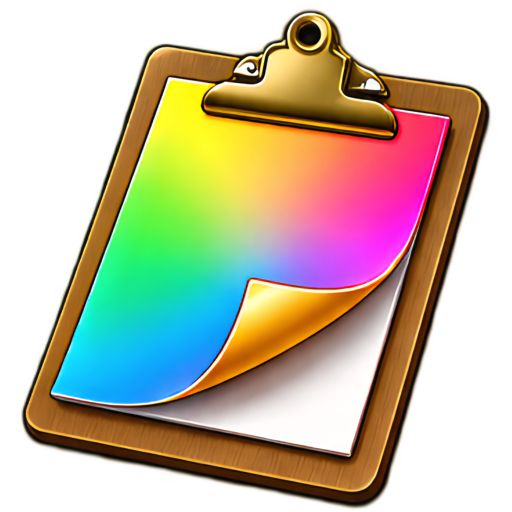
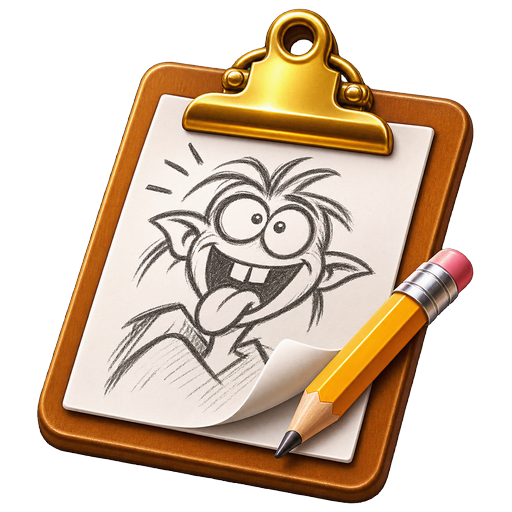
Create from Clipboard picture: George clipboard (rainbow one replaced); changelog 295th; test list 62

diff --git a/KRIMBLE_CHANGES.md b/KRIMBLE_CHANGES.md
@@ -5446,3 +5446,9 @@ George: "Lose the old picture" (after the 292nd entry, which kept the keyboard o
 **Files:** `krimble-artwork/3d/general.png` (changed), 26 picture files deleted (listed below), `krita/pics/svg/dark_config-general.svg`, `light_config-general.svg` (the house), the notes inside 19 other icon files, `krimble-artwork/README.md` (rewritten), `krita/pics/tools/krimble-future-icons/README.txt`
 
 **1. The house.** George sent a picture of a cottage (orange tile roof, brick chimney, lanterns, shutters, flower pots; 1312 x 1199, transparent): "Use this house icon instead of the dirty little house." The "dirty little house" is the icon of **Edit > Preferences > General** (`config-general`: the gray house of the 3D icon sheet). The new picture was cut to its edges, centred in a square with a small margin (512 x 512, `3d/general.png`), and embedded at **256 px** (shown at 192; 139 KB per file instead of 283 KB at 384 px) in the two SVG files, which are the same for both themes. Drawn at 216 px on the dark and the light backgrounds: clean edges. **2. "Remove unused art."** How "unused" was decided: every picture in `krimble-artwork/` was compared, by how it looks, with the 49 pictures the program really installs (the icons embedded in the SVG files, the `krimble-new-*` PNG files, the template pictures), so that a file counts as used when something installed was made from it. **Removed (26 files, about 6.5 MB):** the 12 pictures of `preferences/` (the set of 2026-10-13: replaced by the 3D set on 2026-10-23; the Author page uses the robot head); from `3d/`: the 7 File > New pictures (animation, comics, create-from-clipboard, custom-document, design, dslr, texture: the New dialog went back to the 2026-10-13 pictures in the 256th entry, so the 3D ones are not used) and the 4 pictures never used (advanced-settings, language, reset-restore, resource-paths); `new-document/design-monitor-spare.png`; and the two Eraser originals in `krimble-future-icons` (copies are installed). The old house is replaced by the new one. **Kept, and why:** the source picture of everything installed (12 in `3d/`, 7 in `new-document/`, the robot head); `emoji/` (George's K-and-paw logo for emoji, which he asked to keep, 173rd entry; not used by the app); the Pencil, Path Selection and Clone Stamp icons (for tools not made yet); the splash pictures (the program loads them, both the PNG and the JPG kinds). All 26 files are in the git history (commit `9ff7c00` and the ones before it), so any can be brought back. The notes inside 19 icon files that said the 2026-10-13 picture "is kept in krimble-artwork/preferences/" now say it was removed (they are comments; the pictures embedded in them did not change). **Checked here:** the 23 edited icon files parse as XML; the staged list shows exactly the 26 deletions and nothing else removed. **Not seen on a phone; not in the 1.0.43 APK.**
+
+## 2026-10-25 (295th) — Create from Clipboard: George's clipboard picture; the rainbow one is gone
+
+**Files:** `krimble-artwork/new-document/create-from-clipboard.png` (replaced), `krita/pics/svg/dark_krimble-new-from-clipboard.png`, `light_krimble-new-from-clipboard.png` (replaced), `krimble-artwork/README.md`, `KRIMBLE_TEST_LIST_2026-10-23.md`
+
+George sent a picture of a wooden clipboard with a gold clip, a pencil sketch of a grinning goblin on the paper, a curled page corner and a yellow pencil (1199 x 1312, transparent around it): "Replace the rainbow clipboard icon with this. Delete the old one." **Which icon:** the rainbow clipboard (a page of rainbow colors with a curled gold corner) is the picture of **File > New > Create from Clipboard** (`krimble-new-from-clipboard`, used in `KisDlgCreateNewDocument.cpp`); no other rainbow clipboard exists in the app. **Done:** the new picture was cut to its edges and centred in a square: **512 x 512** as the original (`krimble-artwork/new-document/create-from-clipboard.png`) and **256 x 256** as the two installed PNG files (the same for the dark and the light theme, as before). Drawn on the dark and light backgrounds: clean edges. **"Delete the old one":** the rainbow clipboard was replaced in all three files, so no copy of it is left in the repository (the older 3D-sheet copy was already removed in the 294th entry); it can still be found in the git history. The names the program asks for did not change. **Not seen on a phone; not in the 1.0.43 APK.**

diff --git a/KRIMBLE_TEST_LIST_2026-10-23.md b/KRIMBLE_TEST_LIST_2026-10-23.md
@@ -63,4 +63,5 @@ Status: DONE = pushed (in the build after 1.0.41); OPEN = not done yet; ASK = a 
 59. (George, 2026-10-25) "Can we make an eraser?" (after asking for a way to paint with transparency like a color). **DONE** (290th, not compiled, not seen on a phone; NOT in the 1.0.43 APK): a dedicated **Eraser** tool in the toolbox, after Soften. To test: pick it, paint on a layer with something on it: it should make the layer transparent where the finger goes (the checkerboard shows); change the brush size, softness and opacity in Tool Options; pick the Brush tool: it should paint color again, with the eraser button of the brush toolbar off; switch between Eraser and Brush a few times; try with a pen-pressure brush if there is one. Known: no keyboard key is given to it (E is the eraser switch's).
 60. (George, 2026-10-25, 1.0.43) The tab on the toolbox and the side panel (the "handle") is not drawn any more; the little dots of Krita's separator handle stay. **DONE** (291st, not compiled, not seen on a phone; NOT in the 1.0.43 APK). To test: the tab is gone from both sides but the little dots are there; **dragging where the tab was** (the middle of the panel column's edge, a finger's width on the canvas side) still resizes the toolbox and the right panels. If it does not, say so. Still hidden while Crop or a selection tool is active.
 61. (George, 2026-10-25) "Replace that weird keyboard icon with this." (a picture of a black keyboard with orange Esc and Enter keys). **DONE** (292nd, not seen on a phone; NOT in the 1.0.43 APK): the icon of **Edit > Preferences > Keyboard Shortcuts** (the only keyboard icon found). To test: open Preferences: the Keyboard Shortcuts page shows the new keyboard (wide and short, centred, transparent around it), on the dark and the light theme. If another place shows the "weird keyboard", say where.
+62. (George, 2026-10-25) "Replace the rainbow clipboard icon with this. Delete the old one." (a wooden clipboard with a gold clip, a pencil sketch of a goblin face, and a pencil). **DONE** (295th, not seen on a phone; NOT in the 1.0.43 APK): the picture of **File > New > Create from Clipboard** (the only rainbow clipboard). To test: File > New: the Create from Clipboard section shows the new clipboard, on the dark and the light theme.
 

diff --git a/krimble-artwork/README.md b/krimble-artwork/README.md
@@ -5,7 +5,7 @@ Pictures made for Krimble, kept here at full size. The program uses smaller copi
 ## Used by the program
 
 - `3d/` - the pictures for the pages of Edit > Preferences (512 x 512 PNG, transparent background): general (George's house picture, 2026-10-25), keyboard (George's keyboard picture, 2026-10-25; the picture as he sent it is `keyboard-george-2026-10-25.png`), canvas-input, display, color-manage (Color Management), performance, tablet, canvas-only, popup-palette (Pop-up Palette), color-selector (Color Selector Settings), spen-remote (S-Pen Actions). The others came from the 3D icon sheet of 2026-10-23.
-- `new-document/` - the 7 pictures for the sections of File > New (the pictures of 2026-10-13): custom-document, create-from-clipboard, animation, comics, design, dslr, texture.
+- `new-document/` - the 7 pictures for the sections of File > New (the pictures of 2026-10-13): custom-document, create-from-clipboard, animation, comics, design, dslr, texture. The picture for create-from-clipboard was replaced on 2026-10-25 by George's clipboard with the pencil sketch (the rainbow clipboard was removed; it is in the git history).
 - `file-info/author-robot.png` - the robot head: the picture of Edit > Preferences > Author, and of the Author part of File > File Information.
 
 Where the copies are:
